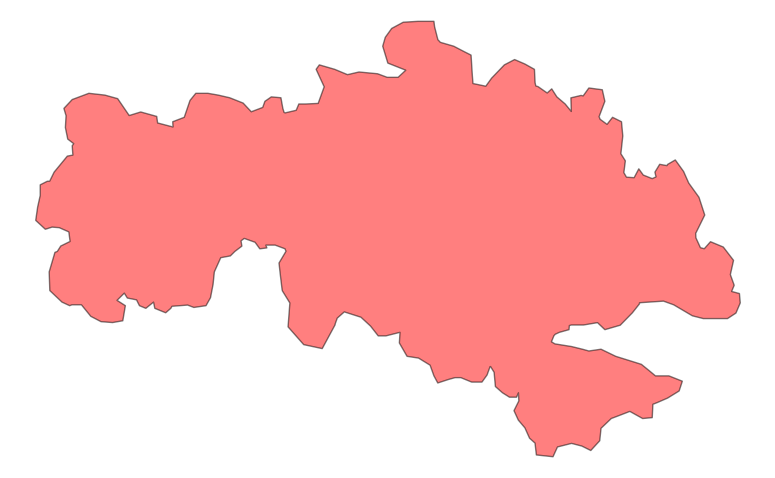
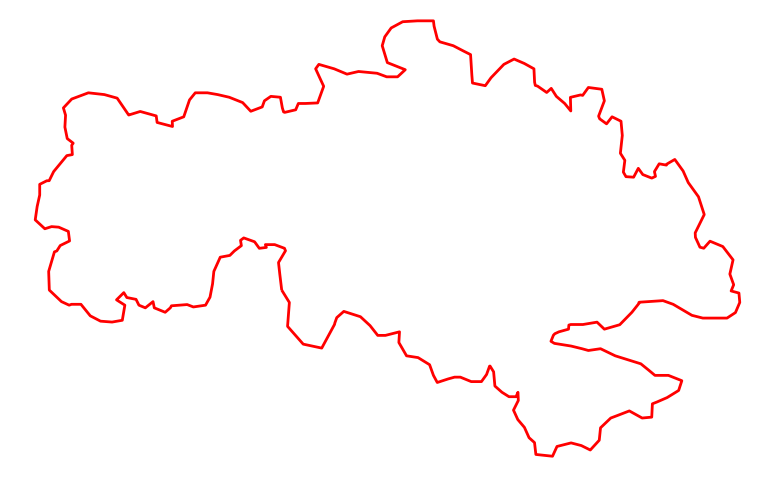
yeehaw

diff --git a/extractPolygon.py b/extractPolygon.py
@@ -44,7 +44,7 @@ for placemark in root.findall('.//kml:Placemark', namespace):
 if not coordinates:
     raise ValueError("No 'Heat Perimeter' layer found in the KML file")
 
-# Correctly parse the coordinates into a list of (longitude, latitude) tuples
+# Parse the coordinates into a list of (longitude, latitude) tuples
 coords = []
 raw_coordinates = coordinates.split()  # Split on whitespace to get individual coordinate triples
 
@@ -73,7 +73,7 @@ gdf = gpd.GeoDataFrame({'geometry': [polygon]}, crs="EPSG:4326")
 
 # Plot the polygon
 fig, ax = plt.subplots(figsize=(10, 10))
-gdf.plot(ax=ax, color='red', alpha=0.5, edgecolor='black')  # Red fill, black outline
+gdf.plot(ax=ax, facecolor='none', edgecolor='red', linewidth=2)  # No fill color, red perimeter 
 ax.set_axis_off()  # Remove axes
 
 # Save the image with a transparent background
